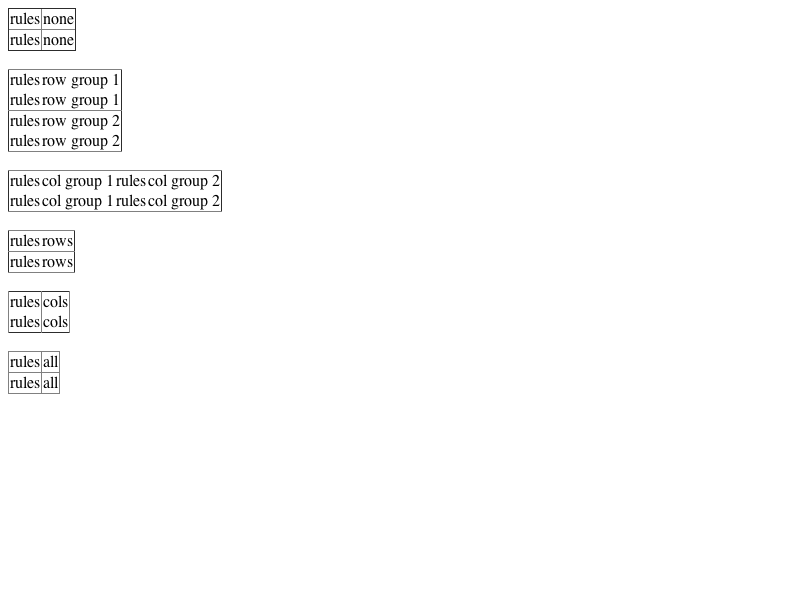
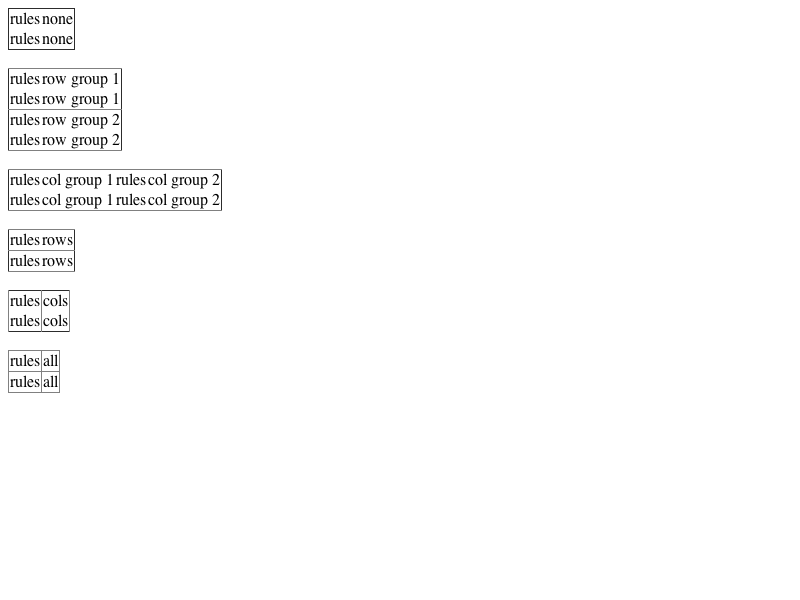
2007-06-25  Mitz Pettel  <mitz@webkit.org>
Reviewed by Maciej.

        - fix http://bugs.webkit.org/show_bug.cgi?id=14341
          rules="none" ignored in certain cases

        Covered by existing tests.

        * html/HTMLTableElement.cpp:
        (WebCore::HTMLTableElement::getSharedCellDecl):

2007-06-25  Mitz Pettel  <mitz@webkit.org>

        Reviewed by Maciej.

        - updated results for http://bugs.webkit.org/show_bug.cgi?id=14341
          rules="none" ignored in certain cases

        * tables/mozilla/marvin/table_rules_none-expected.checksum: Added.
        * tables/mozilla/marvin/table_rules_none-expected.png: Added.
        * tables/mozilla/marvin/table_rules_none-expected.txt: Added.
        * tables/mozilla/marvin/table_rules_none.html: Copied from LayoutTests/tables/mozilla_expected_failures/marvin/table_rules_none.html.
        * tables/mozilla/marvin/x_table_rules_none-expected.checksum: Added.
        * tables/mozilla/marvin/x_table_rules_none-expected.png: Added.
        * tables/mozilla/marvin/x_table_rules_none-expected.txt: Added.
        * tables/mozilla/marvin/x_table_rules_none.xml: Copied from LayoutTests/tables/mozilla_expected_failures/marvin/x_table_rules_none.xml.
        * tables/mozilla_expected_failures/core/table_rules-expected.checksum:
        * tables/mozilla_expected_failures/core/table_rules-expected.png:
        * tables/mozilla_expected_failures/core/table_rules-expected.txt:
[…]

Changed region(s): [[0.0, 0.03, 0.2812, 0.66]]

diff --git a/WebCore/html/HTMLTableElement.cpp b/WebCore/html/HTMLTableElement.cpp
@@ -529,7 +529,7 @@ CSSMutableStyleDeclaration* HTMLTableElement::getSharedCellDecl()
 {
     MappedAttribute attr(cellborderAttr, m_rulesAttr == AllRules ? "solid-all" : 
                                          (m_rulesAttr == ColsRules ? "solid-cols" : 
-                                         (m_rulesAttr == RowsRules ? "solid-rows" : (!m_borderAttr || m_rulesAttr == GroupsRules ? "none" : (m_borderColorAttr ? "solid" : "inset")))));
+                                         (m_rulesAttr == RowsRules ? "solid-rows" : (!m_borderAttr || m_rulesAttr == GroupsRules || m_rulesAttr == NoneRules ? "none" : (m_borderColorAttr ? "solid" : "inset")))));
 
     CSSMappedAttributeDeclaration* decl = getMappedAttributeDecl(ePersistent, &attr);
     if (!decl) {
@@ -552,7 +552,7 @@ CSSMutableStyleDeclaration* HTMLTableElement::getSharedCellDecl()
             decl->setProperty(CSS_PROP_BORDER_TOP_STYLE, CSS_VAL_SOLID, false);
             decl->setProperty(CSS_PROP_BORDER_BOTTOM_STYLE, CSS_VAL_SOLID, false);
             decl->setProperty(CSS_PROP_BORDER_COLOR, "inherit", false);
-        } else if (m_rulesAttr != GroupsRules && (m_borderAttr || m_rulesAttr == AllRules)) {
+        } else if (m_rulesAttr != GroupsRules && m_rulesAttr != NoneRules && (m_borderAttr || m_rulesAttr == AllRules)) {
             decl->setProperty(CSS_PROP_BORDER_WIDTH, "1px", false);
              int v = (m_borderColorAttr || m_rulesAttr == AllRules) ? CSS_VAL_SOLID : CSS_VAL_INSET;
             decl->setProperty(CSS_PROP_BORDER_TOP_STYLE, v, false);
